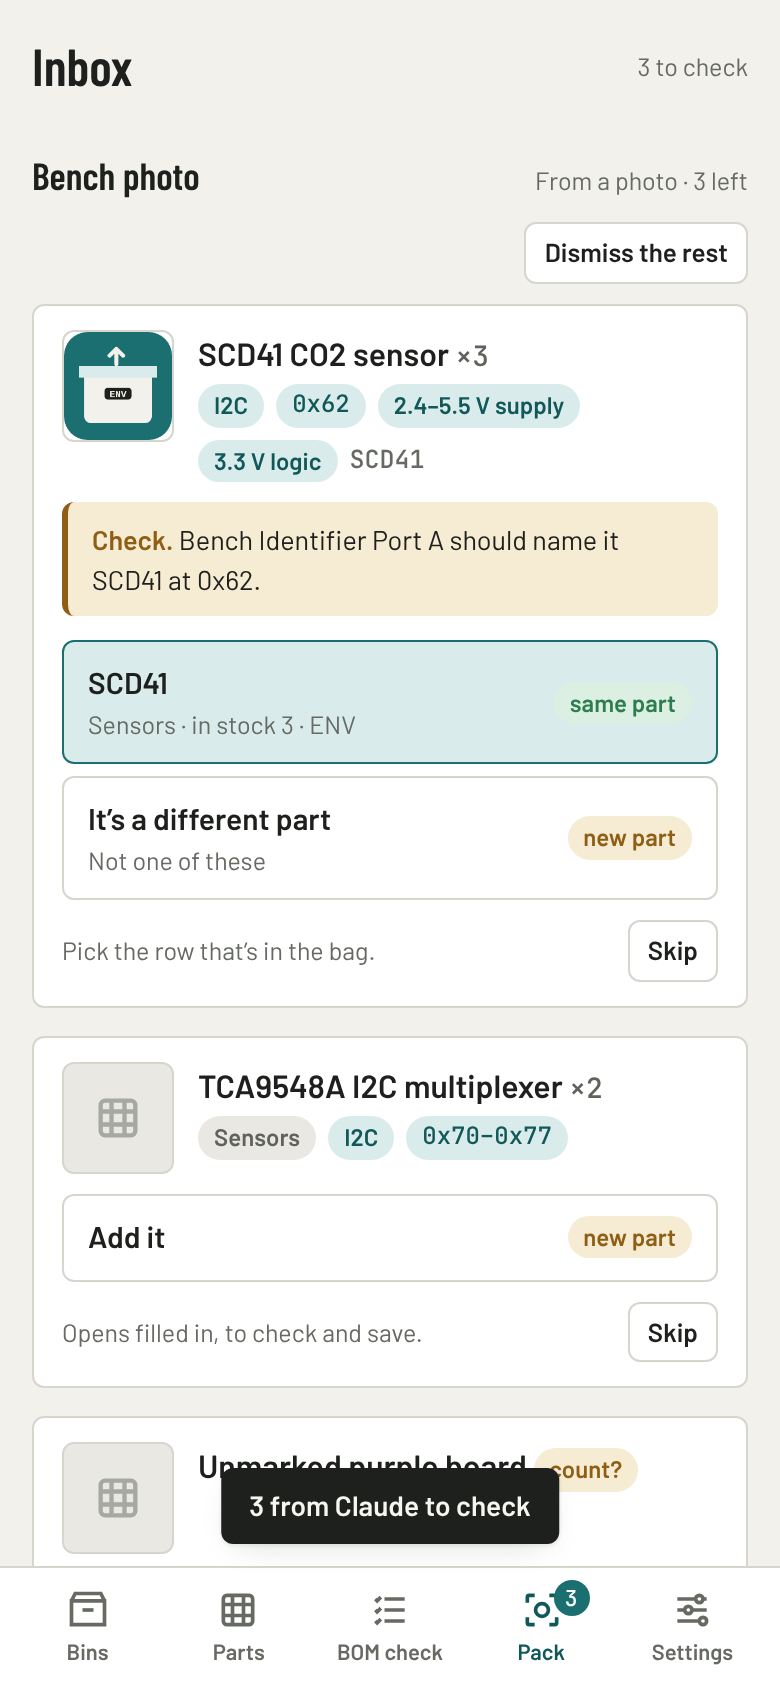
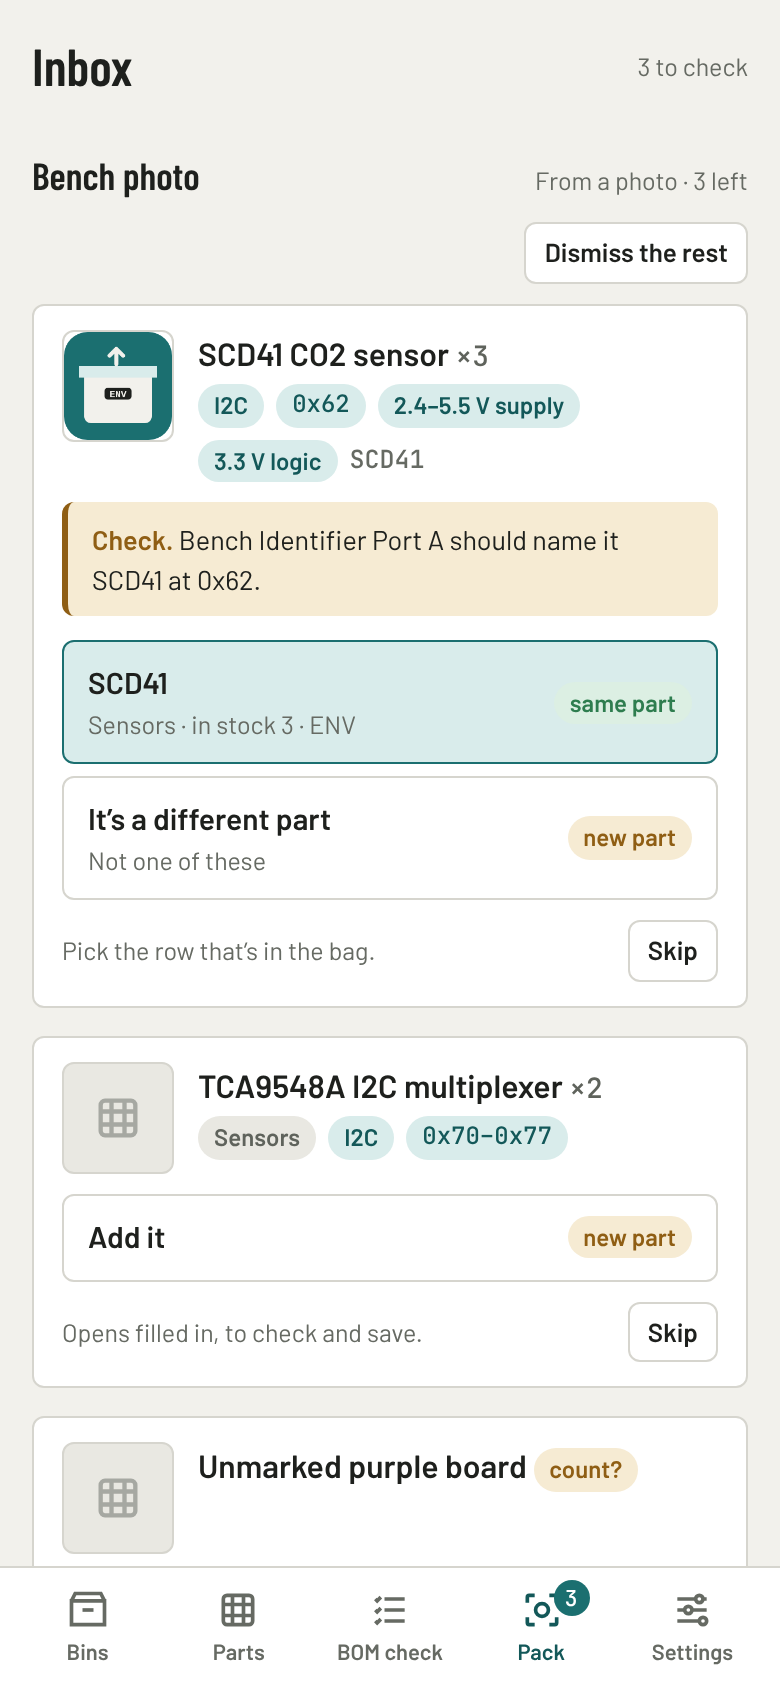
A message goes when another screen opens, and the README shots show none
A message stayed up for its full time after the screen changed, so "That tag isn't one of yours", shown on Bins, sat
over BOM check, and the README's BOM shot was taken with it on the screen (the Inbox and Pack shots had theirs too). A
message now goes when another screen opens, unless it was shown on the way there ("Deleted …" then Parts, a batch
from Claude then the Inbox). The shots wait for any message to go first.

npm test also rewrote all four shots on every run with nothing visible changed, so they're written only when asked:
SHOTS=1 npm test, as the README's Running it now says.

Claude-Session: https://claude.ai/code/session_01PQbLNV3sphK8ujnLfUr9aR

Changed region(s): [[0.2769, 0.8626, 0.7385, 0.9242]]

diff --git a/js/app.js b/js/app.js
@@ -35,6 +35,7 @@ function parseHash(){ const h=location.hash.replace(/^#\/?/,''); const [view,...
 // it goes to the page the sheet was on. While Parts Bin is stepping back off a closed sheet, the page opens once that lands.
 function go(view,arg){
   const u = arg ? `#${view}/${arg}` : `#${view}`;
+  if(toastFresh) toastCarry=true; // "Deleted …", then Parts: the message goes with it
   if(isStepping()) nextPage=u; else if(!openSheet && history.state?.sheet) location.replace(u); else location.hash=u;
 }
 // Whether there's a page of Parts Bin's to go back to. A sheet that has closed leaves its step ahead of this one, and
@@ -42,7 +43,12 @@ function go(view,arg){
 function canGoBack(){ return window.navigation ? navigation.canGoBack : history.length>1; }
 function esc(s){ return String(s ?? '').replace(/[&<>"']/g,c=>({'&':'&amp;','<':'&lt;','>':'&gt;','"':'&quot;',"'":'&#39;'}[c])); }
 function id(){ return Math.random().toString(36).slice(2,10)+Date.now().toString(36).slice(-4); }
-function toast(msg,ms=1800){ const t=document.getElementById('toast'), say=document.getElementById('say'); t.textContent=say.textContent=msg; t.hidden=false; clearTimeout(t._t); t._t=setTimeout(()=>{ t.hidden=true; say.textContent=''; },ms); }
+// A message is about the screen it was shown on, so it goes when another screen opens (a tag read on Bins doesn't follow
+// you to BOM check), unless it was shown on the way there: toast() then go() in one go, or keepToast().
+let toastFresh=false, toastCarry=false;
+function toast(msg,ms=1800){ const t=document.getElementById('toast'), say=document.getElementById('say'); t.textContent=say.textContent=msg; t.hidden=false; toastCarry=false; toastFresh=true; queueMicrotask(()=>{ toastFresh=false; }); clearTimeout(t._t); t._t=setTimeout(hideToast,ms); }
+function hideToast(){ const t=document.getElementById('toast'); clearTimeout(t._t); t.hidden=true; document.getElementById('say').textContent=''; toastCarry=false; }
+function keepToast(){ if(!document.getElementById('toast').hidden) toastCarry=true; }
 function h(html){ const t=document.createElement('template'); t.innerHTML=html.trim(); return t.content.firstElementChild; }
 function fmtQty(p){ return (p.qty ?? 0) + (p.unit && p.unit!=='pcs' ? ' '+p.unit : ''); }
 function binOf(p){ return p.binId ? S.bins.get(p.binId) : null; }
@@ -98,6 +104,7 @@ function render(){
   const v=S.route.view;
   const held=!!heldCode && linkCode()===heldCode;
   if(linkCode() && !held){ m.append(h('<div class="empty"><p class="think" style="justify-content:center">Opening the batch…</p></div>')); return; }
+  if(!same){ if(toastCarry) toastCarry=false; else hideToast(); }
   shown=key;
   if(v==='inbox' || held) renderInbox(m);
   else if(v==='bag'){ const n=Number(S.route.arg); const hit=BG.opens(S.parts.values(), n); if(hit) renderPartPage(m, hit.id); else noBag(m, n); }
@@ -827,7 +834,7 @@ async function takeLink(){
   const c=linkCode(); if(!c) return false;
   if(await takeBatch(c)){ heldCode=''; history.replaceState(null,'',location.pathname+location.search+'#inbox'); } // the code is long, and reloading shouldn't read it twice
   else heldCode=c;
-  render(); return true;
+  keepToast(); render(); return true;
 }
 async function takeBatch(text, {again=false}={}){
   let b=null; try{ b=IN.cleanBatch(await IN.read(text)); }catch{}
@@ -1041,7 +1048,7 @@ function importJson(){
   const inp=document.createElement('input'); inp.type='file'; inp.accept='application/json,.json';
   inp.onchange=async()=>{ const f=inp.files[0]; if(!f) return;
     const text=await f.text();
-    if(/^\s*\{\s*"partsbin"/.test(text)){ if(await takeBatch(text)){ if(S.route.view==='inbox') render(); else go('inbox'); } return; }
+    if(/^\s*\{\s*"partsbin"/.test(text)){ if(await takeBatch(text)){ keepToast(); if(S.route.view==='inbox') render(); else go('inbox'); } return; }
     try{ const {changed:n, back}=store.importText(text);
       // what came back that was deleted here is said apart from the rest: an old backup loaded to rescue one part brings
       // back every part deleted since it was saved

diff --git a/sw.js b/sw.js
@@ -8,7 +8,7 @@
 // fingerprint of every file in SHELL: change any of them and test/e2e.mjs fails until FILES is changed to match (it
 // says what to), which changes this file, so every copy is made whole again at once.
 const CACHE = 'parts-bin-v6'; // bump the number when the file list changes
-const FILES = 'e9773cbe'; // test/e2e.mjs checks this
+const FILES = '7563013a'; // test/e2e.mjs checks this
 const SHELL = [
   './', 'index.html', 'carry.js', 'icon.svg', 'icon-180.png', 'manifest.webmanifest',
   'css/app.css', 'js/app.js', 'js/store.js', 'js/model.js', 'js/sync.js', 'js/ai.js', 'js/inbox.js', 'js/bom.js', 'js/bags.js',

diff --git a/README.md b/README.md
@@ -40,7 +40,8 @@ It's a static site: plain HTML, CSS and JavaScript, with no build step.
 ```sh
 npx http-server -p 8080 -c-1 .   # then open http://localhost:8080
 npm test                         # merge rules, then the page in Chromium with a pretend NFC reader and Drive
-node tools/screenshots.mjs       # og.png (the README phone shots come from npm test)
+SHOTS=1 npm test                 # the same, and regenerates the README phone shots (docs/phone-*.png)
+node tools/screenshots.mjs       # og.png, which shows docs/phone-bom.png (run it after SHOTS=1 npm test)
 node tools/make-icons.mjs        # PNG icons from icon.svg
 ```
 
